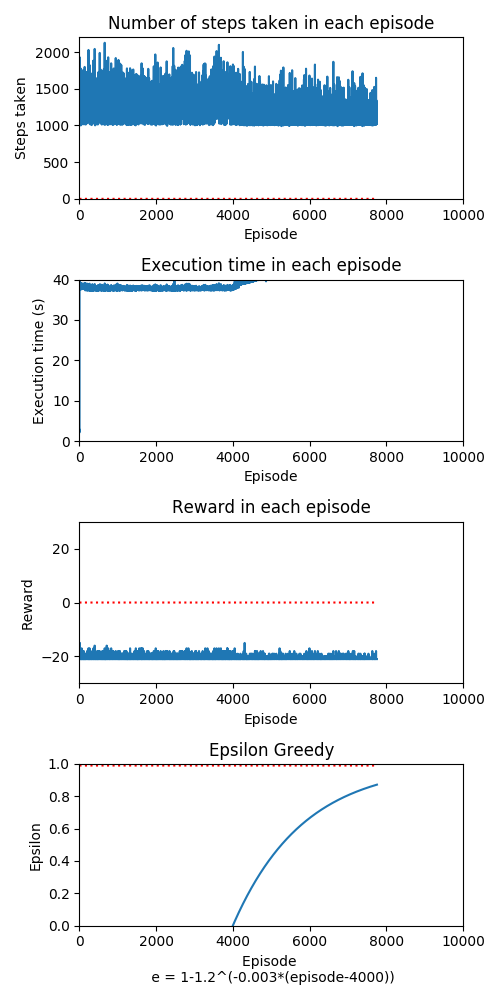
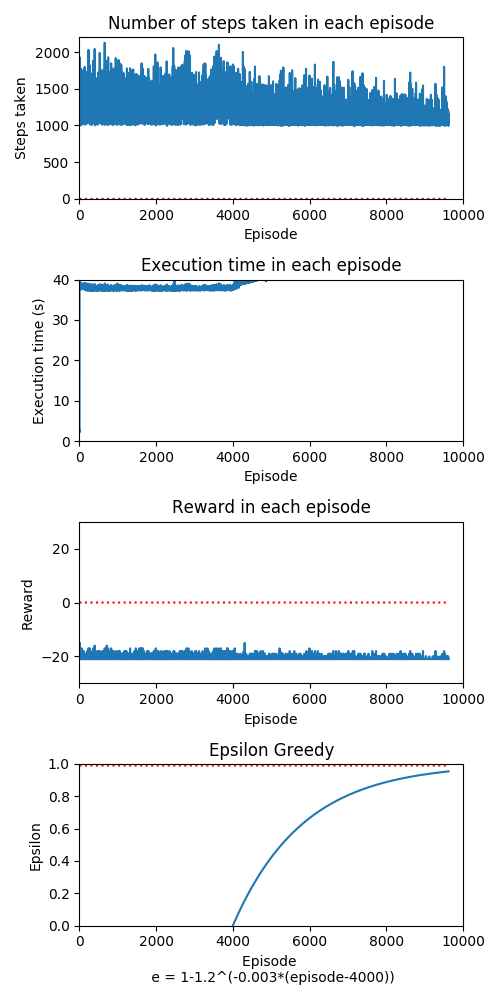
reevaluate code not learning

Changed region(s): [[0.75, 0.062, 0.9, 0.124], [0.75, 0.651, 0.9, 0.682], [0.84, 0.744, 0.9, 0.775]]

diff --git a/run_main.py b/run_main.py
@@ -41,6 +41,9 @@ elif args.environment == 'SpaceInvaders-v0':
 elif args.environment == 'MsPacman-v0':
     import Preprocess.MsPacman_Preprocess as preprocess
     print('MsPacman works')
+elif args.environment == 'CartPole-v1':
+    import Preprocess.Cartpole as preprocess
+    print('Cartpole works')
 else :
     print("Environment not found")
 
@@ -59,7 +62,7 @@ elif args.algorithm == 'DuellingDQN':
     import Dueling_DQN.Brain as brain
     print('Dueling works')
 elif args.algorithm == 'DDDQN':
-    import DDDQN_PER.Brain as brai
+    import DDDQN_PER.Brain as brain
     print('PER works')
 else :
     print("Algorithm not found")
@@ -74,6 +77,12 @@ processor = preprocess.Processing()
 state_space = processor.get_state_space()
 # action space given by the environment
 action_space = env.action_space.n 
+if args.environment == 'CartPole-v1':
+    state_space = env.observation_space.shape[0]
+
+#print(state_space)
+
+#print(action_space)
 
 #**********************************************************************#
 #if you want to look if there's any useless keys print the stuff below
@@ -200,13 +209,14 @@ for episode in range(int(args.episodes)):
                 print('\n Completed Episode ' + str(episode), 'steps = ', step, ' epsilon =', learner.epsilon, ' score = ', episode_rewards, '\n')
 
                 # train algorithm using experience replay
-                learner.memory_replay()
+                #learner.memory_replay()
                 
                 # record video of environment render
                 # env = gym.wrappers.Monitor(env,directory='Videos/' + MODEL_FILENAME + '/',video_callable=lambda episode_id: True, force=True,write_upon_reset=False)
          
                 break
         
+        learner.memory_replay()
         observation = next_observation
 
     # store model weights and parameters when episode rewards are above a certain amount 

diff --git a/Preprocess/Cartpole.py b/Preprocess/Cartpole.py
@@ -1,0 +1,35 @@
+from collections import deque
+import numpy as np
+# http://maciejjaskowski.github.io/2016/03/09/space-invaders.html
+
+
+class Processing:
+    def __init__(self):
+        self.deque = deque([np.zeros((110,84), dtype=np.int) for i in range(4)], maxlen=4)
+        self.step_max = 400
+        self.time_max = 20
+        self.reward_min = 0      
+        self.reward_max = 400
+
+    def Preprocessing(self, state, is_new_episode):
+        return state
+
+
+    def frames_to_state(self, frame, is_new_episode):
+
+        frame = self.Preprocessing(self, frame)
+
+        return frame
+
+
+    def get_state_space(self):
+        return np.shape(self.deque) 
+
+    def discounted_rewards(self, rewards, gamma):
+        return rewards
+
+    def new_action_space(self,actions):
+        return actions
+
+    def mapping_actions_to_keys(self,action_taken):            
+        return action_taken

diff --git a/DQN/Network.py b/DQN/Network.py
@@ -23,6 +23,9 @@ class neural_net():
         # convert image from 2D to 1D
         self.model.add(Flatten())
 
+        #layer for testing out code on cartpole
+        #self.model.add(Dense(24, input_shape=(self.obs_space,), activation="relu"))
+
         # hidden layer takes a pre-processed frame as input, and has 200 units
         #  fibre channel layer 1
         self.model.add(Dense(units=500, activation='relu', kernel_initializer='glorot_uniform'))

diff --git a/DQN/Brain.py b/DQN/Brain.py
@@ -50,6 +50,7 @@ class Learning():
         #  formula = 1 - a ** (-b * (episode - c))
         self.epsilon = 1 - 1.2 ** (-0.003 * (episode - 2500))
         self.e_greedy_formula = 'e = 1-1.2^(-0.003*(episode-4000))'
+
         return action
 
 

diff --git a/Double_DQN/Brain.py b/Double_DQN/Brain.py
@@ -12,7 +12,7 @@ MAX_MEMORY_LENGTH = 5000
 
 START_TRAINING = 500
 
-batch_size=32
+batch_size=64
 
 class Learning():
 
